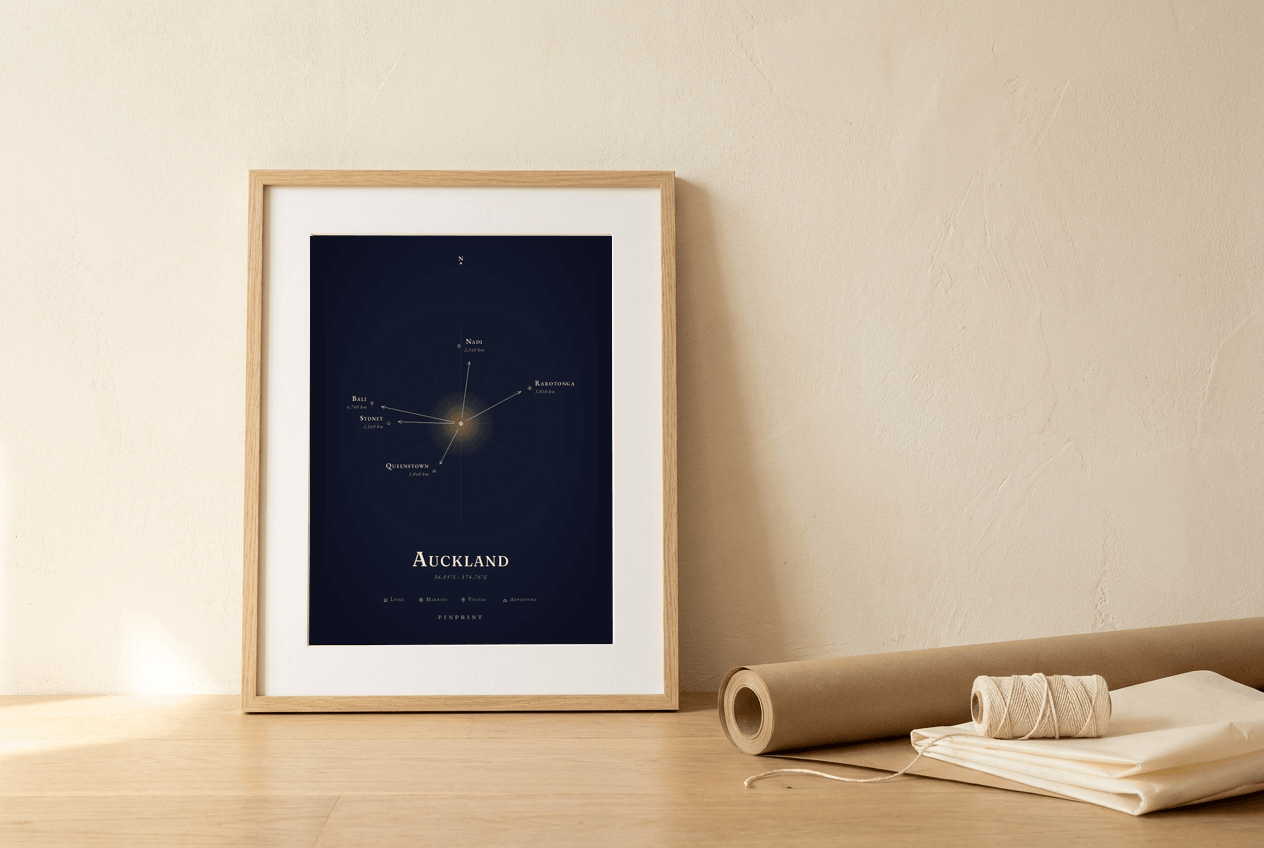
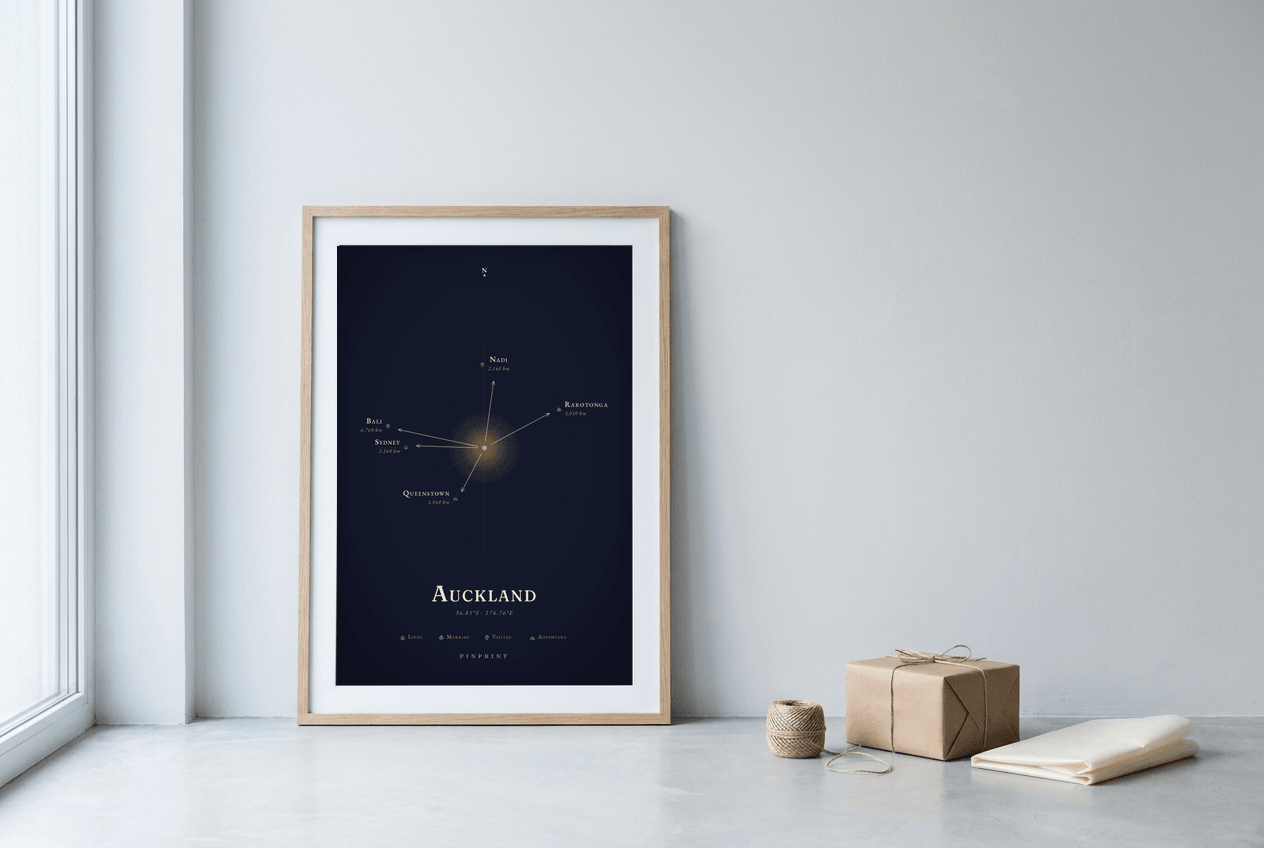
fix(landing): regenerate the Gift-section scene, larger poster + different room
The old scene's frame filled only ~35% of the image height with a lot of
empty wall — the print was too small to actually read. Regenerated it at
~65-70% frame height, and moved the room from warm-ivory/oak (already the
default aesthetic across the hero and craft sections) to a bright, cool
dove-grey/concrete space, so the section visibly demonstrates the print
suits more than one kind of room. Added a COMPOSE_ONLY filter to
compose-scenes.ts so a one-scene regen doesn't recomposite all of them.

Claude-Session: https://claude.ai/code/session_01Da37g4pUGEPdqJq5htyR9Q

diff --git a/frontend/scripts/compose-scenes.ts b/frontend/scripts/compose-scenes.ts
@@ -9,6 +9,7 @@
  * 1200x630 OpenGraph card.
  *
  *   pnpm --filter @pinprint/frontend render:scenes
+ *   COMPOSE_ONLY=scene-gift pnpm ... render:scenes   # comma-separated `out` names only
  *
  * Run AFTER `render:posters` (it consumes public/showcase/<poster>.png).
  * On-demand asset generation — NOT part of `next build` or CI.
@@ -302,9 +303,14 @@ async function ogCard(heroPng: Buffer) {
   console.log(`og-card.png (${(png.length / 1024).toFixed(0)} KB)`);
 }
 
+// COMPOSE_ONLY=scene-gift limits a run to specific `out` names — handy when
+// only one raw scene changed and re-compositing all of them isn't needed.
+const ONLY = process.env.COMPOSE_ONLY?.split(",").map((s) => s.trim());
+
 async function main() {
+  const targets = ONLY ? SCENES.filter((c) => ONLY.includes(c.out)) : SCENES;
   let hero: Buffer | undefined;
-  for (const c of SCENES) {
+  for (const c of targets) {
     const png = await composeOne(c);
     if (c.out === "scene-hero") hero = png;
   }

diff --git a/frontend/scripts/scenes/PROMPTS.md b/frontend/scripts/scenes/PROMPTS.md
@@ -113,11 +113,27 @@ the default 40.
 
 ## scene-gift-raw.png
 
-> Interior photograph of a gift moment: a framed picture leaning against a
-> warm ivory plaster wall, standing on light oak floorboards, next to a roll
-> of unbleached kraft wrapping paper, a spool of thin cotton twine and folded
-> ivory tissue paper. The picture frame is thin natural oak, portrait
-> orientation, photographed perfectly straight-on with no perspective
-> distortion, and the area inside the frame is solid pure black with a white
-> mat border. Soft warm side light, cream and clay palette, photorealistic,
-> landscape 3:2 composition with the frame left of center.
+Deliberately a cooler, brighter, more modern room than the rest of the site's
+warm-ivory default (hero, craft) or the moody green lounge (scene-room-raw) —
+the point is to show the print looks at home in more than one kind of room.
+The frame is also much larger in-image than the first version (was ~35% of
+image height with a lot of empty wall; now ~65-70%) so the composited artwork
+actually reads at landing-page card size.
+
+> Photorealistic interior product photograph, landscape 3:2 composition,
+> editorial high-end design magazine style. A single thin natural oak picture
+> frame, portrait orientation, leaning against a wall (not hanging),
+> photographed perfectly straight-on with no perspective distortion, frame
+> edges perfectly vertical and horizontal. The frame fills approximately
+> 65-70% of the image height, positioned left of center. The area inside the
+> frame, inside a thin white mat border, is a single uniform solid pure black
+> rectangle: completely flat matte black, no texture, no reflections, no
+> gradient, no glare. The wall behind is a smooth, bright, cool dove-grey
+> painted plaster (not ivory or cream), and the floor is pale polished
+> concrete (not oak floorboards). Crisp bright cool daylight streams in from a
+> large window out of frame, casting soft, cool-toned shadows, not warm golden
+> light. To the right of the frame, small and pushed to the edge: a neatly
+> wrapped gift box in kraft brown paper with a thin natural twine bow, a small
+> spool of twine, and a folded piece of ivory tissue paper, scaled small so
+> they do not compete with the frame. Generous calm negative space. Modern,
+> airy, minimal, photorealistic, sharp focus throughout.